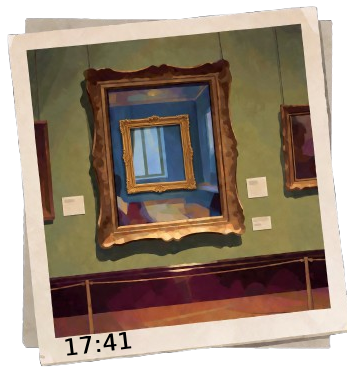
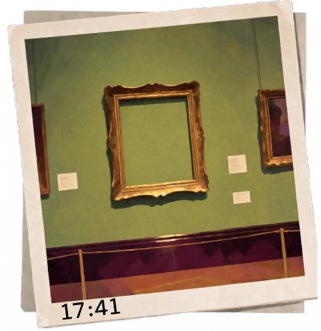
feat: add history and rules modal with navigation slides

diff --git a/blue_picture_game/src/components/StartScreen/StartScreen.tsx b/blue_picture_game/src/components/StartScreen/StartScreen.tsx
@@ -1,24 +1,64 @@
 
+import { useState } from "react"
 import { GameButton } from "./GameButton"
+import { primaryInformation } from "../../data/primaryHistory"
 
 type StartScreenProps = {
     onSendStatusGame: () => void
 }
 
 export function StartScreen(onSendStatusGame: StartScreenProps) {
+    const [isOpenModal, setIsOpenModal] = useState(false)
+    const [currentSlide, setCurrentSlide] = useState(0)
+    const handleOpenModal= () => {
+        setIsOpenModal(true)
+    }
+    const handleCloseModal =()=> {
+        setIsOpenModal(false)
+    }
+    const handleChangeSlide = (signo: string) => {
+        if(signo === "plus" && currentSlide<3) {
+            setCurrentSlide(prev => prev +1)
+        } else if (signo === "minus" && currentSlide>0) {
+            setCurrentSlide(prev => prev -1)
+        }
+    }
     const handleClickParent = onSendStatusGame.onSendStatusGame
 
     return (
 
     <div className="start-screen">
         <img src="/images/startPicture.png" alt="An empty frame in an art gallery" />
+
+        {isOpenModal && 
+        <div className="primary-history-block">
+            <div className="primary-history-block-second">
+            <div className="cruz-primary" onClick={handleCloseModal}>X</div>
+            <p className="primary-text"><strong>{primaryInformation[currentSlide].title}</strong></p>
+            <p className="primary-text">{primaryInformation[currentSlide].text}</p>
+            <img className="primary-slide-photo" src={primaryInformation[currentSlide].photo} alt="slide photo" />
+            <div onClick={ () => {handleChangeSlide("plus")} } ><img className="right-arrow-history" src="/images/arrows/rightArrow.png" alt="right arrow" /></div>
+            <div onClick={() => {handleChangeSlide("minus")} } ><img className="left-arrow-history" src="/images/arrows/leftArrow.png" alt="left arrow" /></div>
+            
+            </div>
+            
+            </div>
+            
+        }
         <div style={{
             position: "absolute",
             bottom: "10%",
             left: "50%",
-            transform: "translateX(-50%)"
+            transform: "translateX(-50%)",
+            display: "flex",
+            flexDirection: "column",
+            justifyContent: "center",
+            alignItems: "center",
+            gap: "2vw"
+
         }}>
-            < GameButton text = {"Start Game"} buttonOnClick = {handleClickParent}  />
+            < GameButton text = {"Comenzar el juego"} buttonOnClick = {handleClickParent}  />
+            < GameButton text = {"Historia y reglas"} buttonOnClick = {handleOpenModal}  />
         </div>
         
         

diff --git a/blue_picture_game/src/data/primaryHistory.tsx b/blue_picture_game/src/data/primaryHistory.tsx
@@ -1,0 +1,29 @@
+export const  primaryInformation = [
+    {
+        id: 1,
+        title: "The Missing Painting",
+        text: ["La inauguración de una exposición privada está a punto de comenzar cuando ocurre algo inesperado.El Mar de los Secretos, el cuadro más valioso de la galería, ha desaparecido.Las puertas están cerradas. La alarma sigue activada. Nadie ha entrado ni salido del edificio desde la última vez que se vio el cuadro."],
+        photo: "/images/history/gallery1.jpg",
+    },
+        {
+        id: 2,
+        title: "The Missing Painting",
+        text: ["Solo había tres personas dentro de la galería cuando desapareció:",
+" Los tres tenían acceso a la galería. Cada uno tiene su propia versión de lo ocurrido. Y hay detalles que no terminan de encajar.",
+" Tu misión es investigar la desaparición. Habla con los sospechosos, examina las pruebas, compara sus declaraciones y presta atención a los detalles que otros podrían pasar por alto."],
+        photo: "/images/history/gallery2.jpg",
+    },
+        {
+        id: 3,
+        title: "The Missing Painting",
+        text: ["Alguien está ocultando algo. Pero una persona sospechosa no tiene por qué ser la culpable."," ¿Serás capaz de descubrir la verdad antes de que comience la exposición?"],
+        photo: "/images/history/gallery3.jpg",
+    },
+        {
+        id: 4,
+        title: "Reglas",
+        text: ["Puedes desplazarte por el juego utilizando las flechas que aparecen en pantalla. Algunas salas pueden estar temporalmente inaccesibles."],
+        photo: "/images/history/gallery4.png",
+    },
+
+]
